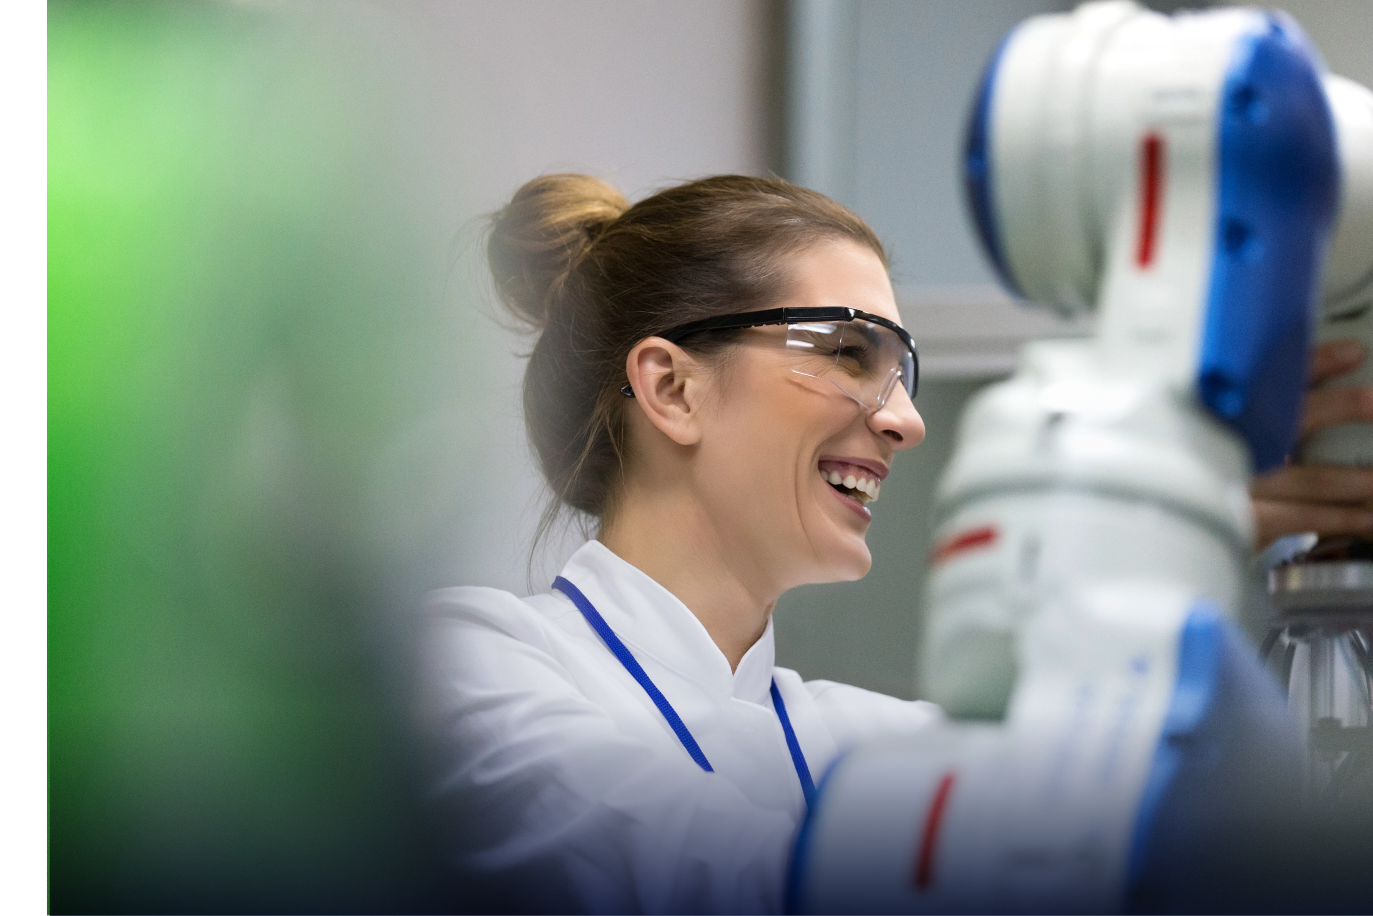
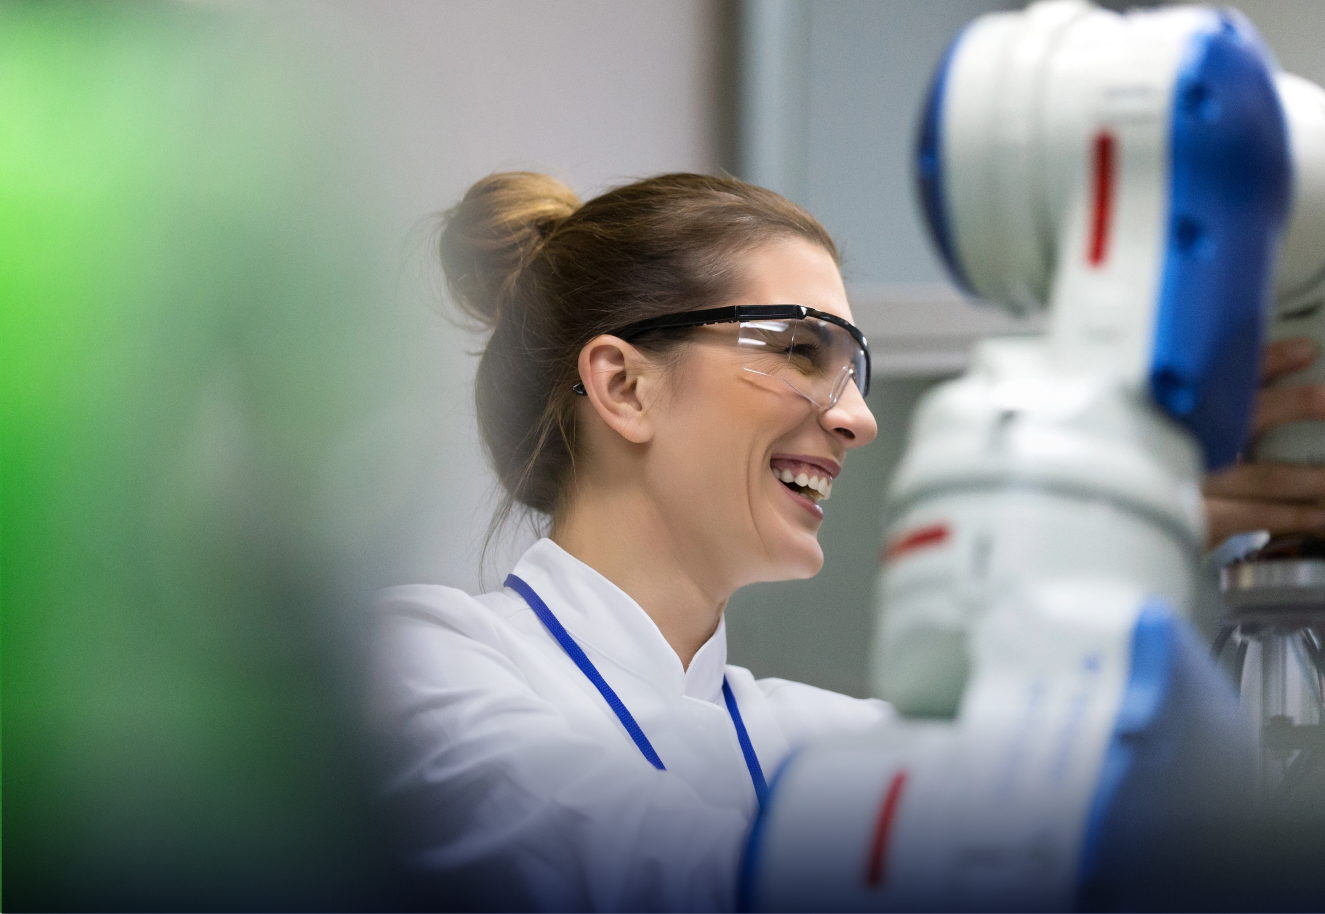
fixed image size

diff --git a/assets/css/slider.css b/assets/css/slider.css
@@ -68,10 +68,15 @@
   font-family: "Gotham", sans-serif;
 }
 
-
+.slider h3 {
+  font-size: 7vw;
+}
 .slider h4 {
   letter-spacing: 1.5px;
   font-size:medium;
+  text-align: left;
+  padding-left:20px;
+  padding-right:20px;
 }
 
 .slider .innerScroll {
@@ -120,7 +125,7 @@
 
 .slider .inner-clip {
   position: relative;
-  text-align: center;
+  text-align: left;
   bottom: -1px;
   padding: 40px 40px 0px 40px;
   background: #fff;
@@ -128,16 +133,16 @@
   clip-path: polygon(85% 0, 100% 20%, 100% 100%, 0 100%, 0 0);
 }
 
+.slider .inner-clip {
+  font-size: 7vw;
+}
 .slider .inside-slide
 {
   position:relative;
 }
 
 .slider .inner-centered {
-  text-align: center;
-  width: 70%;
-  margin-left: auto;
-  margin-right: auto;
+  text-align: left;
   padding: 20px;
 }
 .slider .inner-body {
@@ -347,7 +352,7 @@
 .slider ::-webkit-scrollbar-thumb {
   background-color: #123360;
   border-radius: 20px;
-  border: 6px solid transparent;
+  border: 5px solid transparent;
   background-clip: content-box;
 }
 
@@ -375,6 +380,22 @@
   height: 200px;
 }
 
+@media only screen and (min-width: 426px) {
+  .slider h3{
+    font-size: 35px;
+  }
+
+  .slider .inner-clip {
+    position: relative;
+    text-align: center;
+    bottom: -1px;
+    padding: 25px 40px 0px 40px;
+    background: #fff;
+    -webkit-clip-path: polygon(90% 0, 100% 100%, 100% 100%, 0 100%, 0 0);
+    clip-path: polygon(90% 0, 100% 100%, 100% 100%, 0 100%, 0 0);
+  }
+
+}
 @media only screen and (min-width: 769px) {
   #main-content.main-content-headroom {
     margin-top: 0 !important;
@@ -821,6 +842,8 @@
     overflow-y: overlay;
     background-size: 100%;
     background-repeat: no-repeat;
+    scrollbar-width: thin;
+    scrollbar-color: #123360 aliceblue;
   }
   .slider .innerScroll { height: calc(100vh - 130px); }
 
@@ -831,13 +854,9 @@
     background-color: transparent;
   }
   .slider::-webkit-scrollbar-thumb {
-    background-color: #d6dee1;
     border-radius: 20px;
-    border: 6px solid transparent;
+    border: 5px solid transparent;
     background-clip: content-box;
-  }
-  .slider::-webkit-scrollbar-thumb:hover {
-    background-color: #a8bbbf;
   }
   .slider .list-content {
     columns: 2;
@@ -870,6 +889,9 @@
 
   .slider .next-link {
     display: block;
+  }
+  .slider h4{
+    padding:0;
   }
   .slider .blue-section h6 {
       text-align: left;
